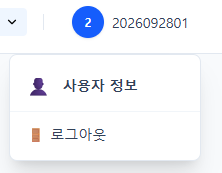
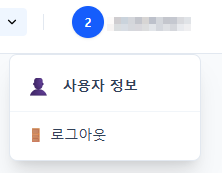
v0.3.1 버전 개선

Changed region(s): [[0.4865, 0.0867, 0.8649, 0.2023]]

diff --git a/getting-started/undefined.md b/getting-started/undefined.md
@@ -40,7 +40,7 @@ EasyWare를 처음 사용할 때 알아두면 좋은 **계정, 회사, 권한의
 
 ### 2. 회원가입
 
-<figure><img src="../.gitbook/assets/image (49).png" alt=""><figcaption></figcaption></figure>
+<figure><img src="../.gitbook/assets/signup-form.png" alt="회원가입 화면 (기업 정보, 아이디·이름·비밀번호, 필수 이메일과 인증 메일 안내, 자동 가입 방지 확인, 약관 동의·회원 가입 버튼)"><figcaption></figcaption></figure>
 
 #### 2.1 기업 정보 확인
 
@@ -58,7 +58,7 @@ EasyWare를 처음 사용할 때 알아두면 좋은 **계정, 회사, 권한의
 
 **신규 회사 등록**을 누르면 회사 정보를 입력하는 팝업창이 열립니다.
 
-<figure><img src="../.gitbook/assets/image (50).png" alt=""><figcaption></figcaption></figure>
+<figure><img src="../.gitbook/assets/company-create.png" alt="신규 회사 등록 팝업창 (사업자등록증 안내 문구, 사업자번호·회사명·기업코드·대표자명·개업일자 필수, 주소, 자동 등록 방지 확인)"><figcaption></figcaption></figure>
 
 | 항목    |  필수 | 설명                                              |
 | ----- | :-: | ----------------------------------------------- |
@@ -154,6 +154,10 @@ EasyWare를 처음 사용할 때 알아두면 좋은 **계정, 회사, 권한의
 
 **인증하지 않고 로그인하면** 업무 화면 대신 **"이메일 인증이 필요해요"** 안내가 표시됩니다.
 
+<figure><img src="../.gitbook/assets/email-verify-gate.jpg" alt="'이메일 인증이 필요해요' 안내 화면 (등록된 이메일이 없을 때: 이메일 등록·로그아웃 버튼)"><figcaption></figcaption></figure>
+
+등록된 이메일이 없으면 **이메일 등록**과 **로그아웃** 버튼만 표시됩니다. 이메일이 있으면 아래 버튼이 표시됩니다.
+
 | 버튼              | 설명                                                                 |
 | --------------- | ------------------------------------------------------------------ |
 | **인증 완료했어요**    | 메일의 링크로 인증한 뒤 누르면 업무 화면으로 들어갑니다. 아직이면 _"아직 인증이 완료되지 않았어요."_ 안내가 나옵니다. |
@@ -233,7 +237,7 @@ EasyWare를 처음 사용할 때 알아두면 좋은 **계정, 회사, 권한의
 
 화면 오른쪽 위 **내 이름(프로필) > 사용자 정보**에서 다음을 할 수 있습니다.
 
-<figure><img src="../.gitbook/assets/image (54).png" alt=""><figcaption></figcaption></figure>
+<figure><img src="../.gitbook/assets/myinfo.jpg" alt="사용자 정보 팝업창 (계정 정보, 이메일 등록 버튼, 비밀번호 변경 버튼, 소속 회사 목록)"><figcaption></figcaption></figure>
 
 * 이름·연락처 수정 (소속된 **모든 회사에 똑같이** 적용)
 * 이메일 등록·변경 (인증 메일의 링크를 눌러야 반영)
@@ -248,11 +252,15 @@ EasyWare를 처음 사용할 때 알아두면 좋은 **계정, 회사, 권한의
 
 로그인 화면의 비밀번호 입력칸 오른쪽 위 **비밀번호 찾기**를 누릅니다.
 
+<figure><img src="../.gitbook/assets/pw-forgot.jpg" alt="비밀번호 찾기 화면 (아이디 입력, 재설정 안내 받기 버튼, 로그인 화면으로)"><figcaption></figcaption></figure>
+
 1. **아이디**를 입력하고 **재설정 안내 받기**를 누릅니다.
 2. _"안내를 보냈어요"_ 화면이 나오면 메일함에서 **\[EasyWare] 비밀번호 재설정 안내** 메일을 엽니다.
 3. 메일의 링크를 누르면 **새 비밀번호 설정** 화면이 열립니다.
 4. **새 비밀번호**와 **새 비밀번호 확인**을 입력하고 **비밀번호 변경**을 누릅니다.
 5. _"비밀번호를 변경했어요. 새 비밀번호로 로그인해주세요."_ 가 나오면 새 비밀번호로 로그인합니다.
+
+<figure><img src="../.gitbook/assets/pw-reset.jpg" alt="새 비밀번호 설정 화면 (새 비밀번호·새 비밀번호 확인, 비밀번호 규칙 안내, 비밀번호 변경 버튼)"><figcaption></figcaption></figure>
 
 {% hint style="warning" %}
 * 재설정 안내는 **이메일 인증을 마친 계정**에만 보내집니다. 이메일 인증을 하지 않았다면 메일이 오지 않으니 회사 관리자나 [시스템 문의](../support/system-inquiry.md)로 연락해 주세요.

diff --git a/company/user/undefined.md b/company/user/undefined.md
@@ -2,7 +2,7 @@
 
 내 **이름·연락처**를 수정하고, **이메일**과 **비밀번호**를 바꾸고, 소속된 **회사 목록**을 확인하거나 회사에서 **나가거나 계정을 탈퇴**할 수 있는 팝업창입니다.
 
-<figure><img src="../../.gitbook/assets/image (55).png" alt=""><figcaption></figcaption></figure>
+<figure><img src="../../.gitbook/assets/myinfo.jpg" alt="사용자 정보 팝업창 (계정 정보, 이메일 등록 버튼, 비밀번호 변경 버튼, 소속 회사 목록)"><figcaption></figcaption></figure>
 
 ***
 
@@ -64,6 +64,8 @@
 4. _"인증 메일을 보냈어요. 메일함을 확인해주세요."_ 가 표시되면 새 이메일의 메일함에서 링크를 누릅니다.
 5. 인증이 끝나면 새 이메일로 바뀝니다.
 
+<figure><img src="../../.gitbook/assets/myinfo-email.jpg" alt="이메일 변경 팝업창 (인증 메일 안내, 지금 이메일 유지 안내, 새 이메일·현재 비밀번호, 인증 메일 보내기 버튼)"><figcaption></figcaption></figure>
+
 {% hint style="info" %}
 * 인증된 이메일을 바꾸는 중이면 **인증을 마칠 때까지 지금 이메일이 그대로** 유지됩니다. 이메일 칸 아래에 _"(새 주소)(으)로 변경하려면 메일의 링크를 눌러 인증해주세요."_ 가 표시됩니다.
 * 메일을 못 받았다면 **인증 메일 다시 보내기**를 누르세요. (1분에 한 번, 하루 횟수 제한이 있습니다.)
@@ -86,6 +88,8 @@
 2. **현재 비밀번호**, **새 비밀번호**, **새 비밀번호 확인**을 입력합니다.
 3. **변경**을 누릅니다.
 4. _"비밀번호가 변경되었어요. 다른 기기에서는 다시 로그인해야 해요."_ 가 표시되면 완료입니다.
+
+<figure><img src="../../.gitbook/assets/myinfo-password.jpg" alt="비밀번호 변경 팝업창 (다른 기기 로그아웃 안내, 현재 비밀번호·새 비밀번호·새 비밀번호 확인, 변경 버튼)"><figcaption></figcaption></figure>
 
 | 상황               | 안내 메시지                               |
 | ---------------- | ------------------------------------ |
@@ -175,6 +179,8 @@
 3. **현재 비밀번호**를 입력합니다.
 4. **탈퇴**를 누릅니다.
 5. 로그아웃되고 로그인 화면으로 이동합니다.
+
+<figure><img src="../../.gitbook/assets/myinfo-withdraw.jpg" alt="계정 탈퇴 팝업창 (탈퇴 시 처리 안내, 한 회사만 그만둘 때 안내, 현재 비밀번호, 탈퇴 버튼)"><figcaption></figcaption></figure>
 
 #### 7.1 탈퇴하면 이렇게 처리됩니다
 

diff --git a/company/user/README.md b/company/user/README.md
@@ -10,7 +10,7 @@
 사용자 관리 화면은 관리자만 수정할 수 있습니다. 관리자가 아닌 사용자에게는 _"조회 전용 · 변경은 관리자만 가능합니다"_ 가 표시되고, **승인 대기**·**퇴사처리**·**복직처리** 버튼이 보이지 않으며 **저장**이 비활성화됩니다.
 {% endhint %}
 
-<figure><img src="../../.gitbook/assets/image (48).png" alt=""><figcaption></figcaption></figure>
+<figure><img src="../../.gitbook/assets/usermng-list.jpg" alt="사용자관리 화면 (검색·상태·조회, 상태·아이디·이름·권한·부서·이메일 인증·연락처·비고·가입일 칸)"><figcaption></figcaption></figure>
 
 ***
 
@@ -184,6 +184,8 @@
 2. 확인 창에서 **보내기**를 누릅니다.
 
 > 비밀번호 재설정 메일을 보낼까요? 홍길동(hong) 사용자의 인증된 이메일로 재설정 안내를 보냅니다. 사용자가 새 비밀번호를 설정하기 전까지 기존 비밀번호는 그대로 사용할 수 있어요.
+
+<figure><img src="../../.gitbook/assets/usermng-reset.jpg" alt="'비밀번호 재설정 메일을 보낼까요?' 확인 창 (취소·보내기 버튼)"><figcaption></figcaption></figure>
 
 3. _"비밀번호 재설정 메일을 보냈어요."_ 가 표시되면 완료입니다.
 4. 직원은 메일의 링크(30분 동안 유효)를 눌러 새 비밀번호를 설정합니다.

diff --git a/README.md b/README.md
@@ -1,4 +1,4 @@
-<sub>v0.3.0</sub>
+<sub>v0.3.1</sub>
 ## EasyWare에 오신 것을 환영합니다. 
 
 
